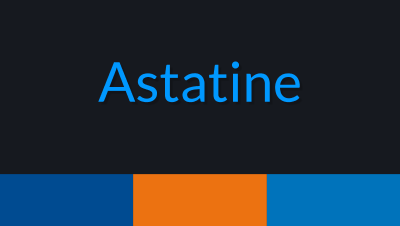
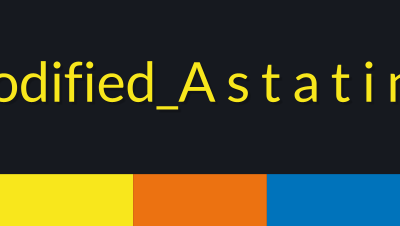
Insert zip content

diff --git a/.contentfusion/templates/a s ta ti ne    m o di fied/styles.css b/.contentfusion/templates/a s ta ti ne    m o di fied/styles.css
@@ -1,5 +1,5 @@
 /*#
-@colors&{"titlesAccentColor":"#004b91","labelsAccentColor":"#ec7211","linksAccentColor":"#0073bb","backgroundAccentColor":"#16191f","isDefault":true}&colors@
+@colors&{"titlesAccentColor":"#f8e71c","labelsAccentColor":"#ec7211","linksAccentColor":"#0073bb","backgroundAccentColor":"#16191f","isDefault":false}&colors@
 @info@STYLES BASKET SELECTIONS METADATA@info@
 @name&styles_basket&name@
 @aspects&wh-tiles,accent-colors-selector,code-font-consolas,notes-layout-two-lines,notes-style-borders-square,notes-colors-colorful,toc-numbering-empty,left-pages-header-centered-publication-title,right-pages-header-centered-publication-title,left-pages-footer-centered-page,right-pages-footer-centered-page,footer-separator-one-titles,header-separator-one-titles,wh-tiles-themes-titles-and-label,wh-breadcrumb-separator-arrow,wh-breadcrumb-colors-links-on-gray,wh-left-toc-thin-right-borders,wh-right-toc-thin-left-border,wh-search-component-colors-white,wh-search-component-background-color,links-style-underline-on-hover,table-colors-black-white,wh-menu-page-colors-link-color,fonts-selector&aspects@
@@ -68,7 +68,7 @@
 *[class~="placeholder/figurelist"] > *[class~="topic/title"],
 *[class~="placeholder/tablelist"] > *[class~="topic/title"],
 *[class~="index/groups"]::before {
-  color: #004b91;
+  color: #f8e71c;
 }
 *[class~='topic/shortdesc']:before {
   color: #ec7211;
@@ -120,10 +120,9 @@ body {
   font-family: 'SecondaryBrandingFont', sans-serif;
 }
 /*code-font-consolas*/
-*[class~='pr-d/codeblock'],
-*[class~='codeblock'],
 *[class~='pr-d/codeph'],
-*[class~='codeph'] {
+*[class~='pr-d/codeblock'],
+*[class~="pr-d/codeblock"] > code {
   font-family: 'Consolas', monospace;
 }
 /*table-colors-black-white*/
@@ -204,7 +203,7 @@ a:hover {
 }
 /*header-separator-one-titles*/
 @page chapter {
-  border-top: 1pt solid #004b91;
+  border-top: 1pt solid #f8e71c;
   
   @top-left-corner {
     padding-bottom: 12pt;
@@ -241,7 +240,7 @@ a:hover {
 }
 /*footer-separator-one-titles*/
 @page chapter {
-  border-bottom: 1pt solid #004b91;
+  border-bottom: 1pt solid #f8e71c;
   
   @bottom-left-corner {
     padding-top: 12pt;
@@ -274,7 +273,7 @@ a:hover {
   font-size: 1.5em;
 }
 .wh_tile_title a {
-  color: #004b91;
+  color: #f8e71c;
 }
 .wh_tile_shortdesc {
   margin-top: 1em;
